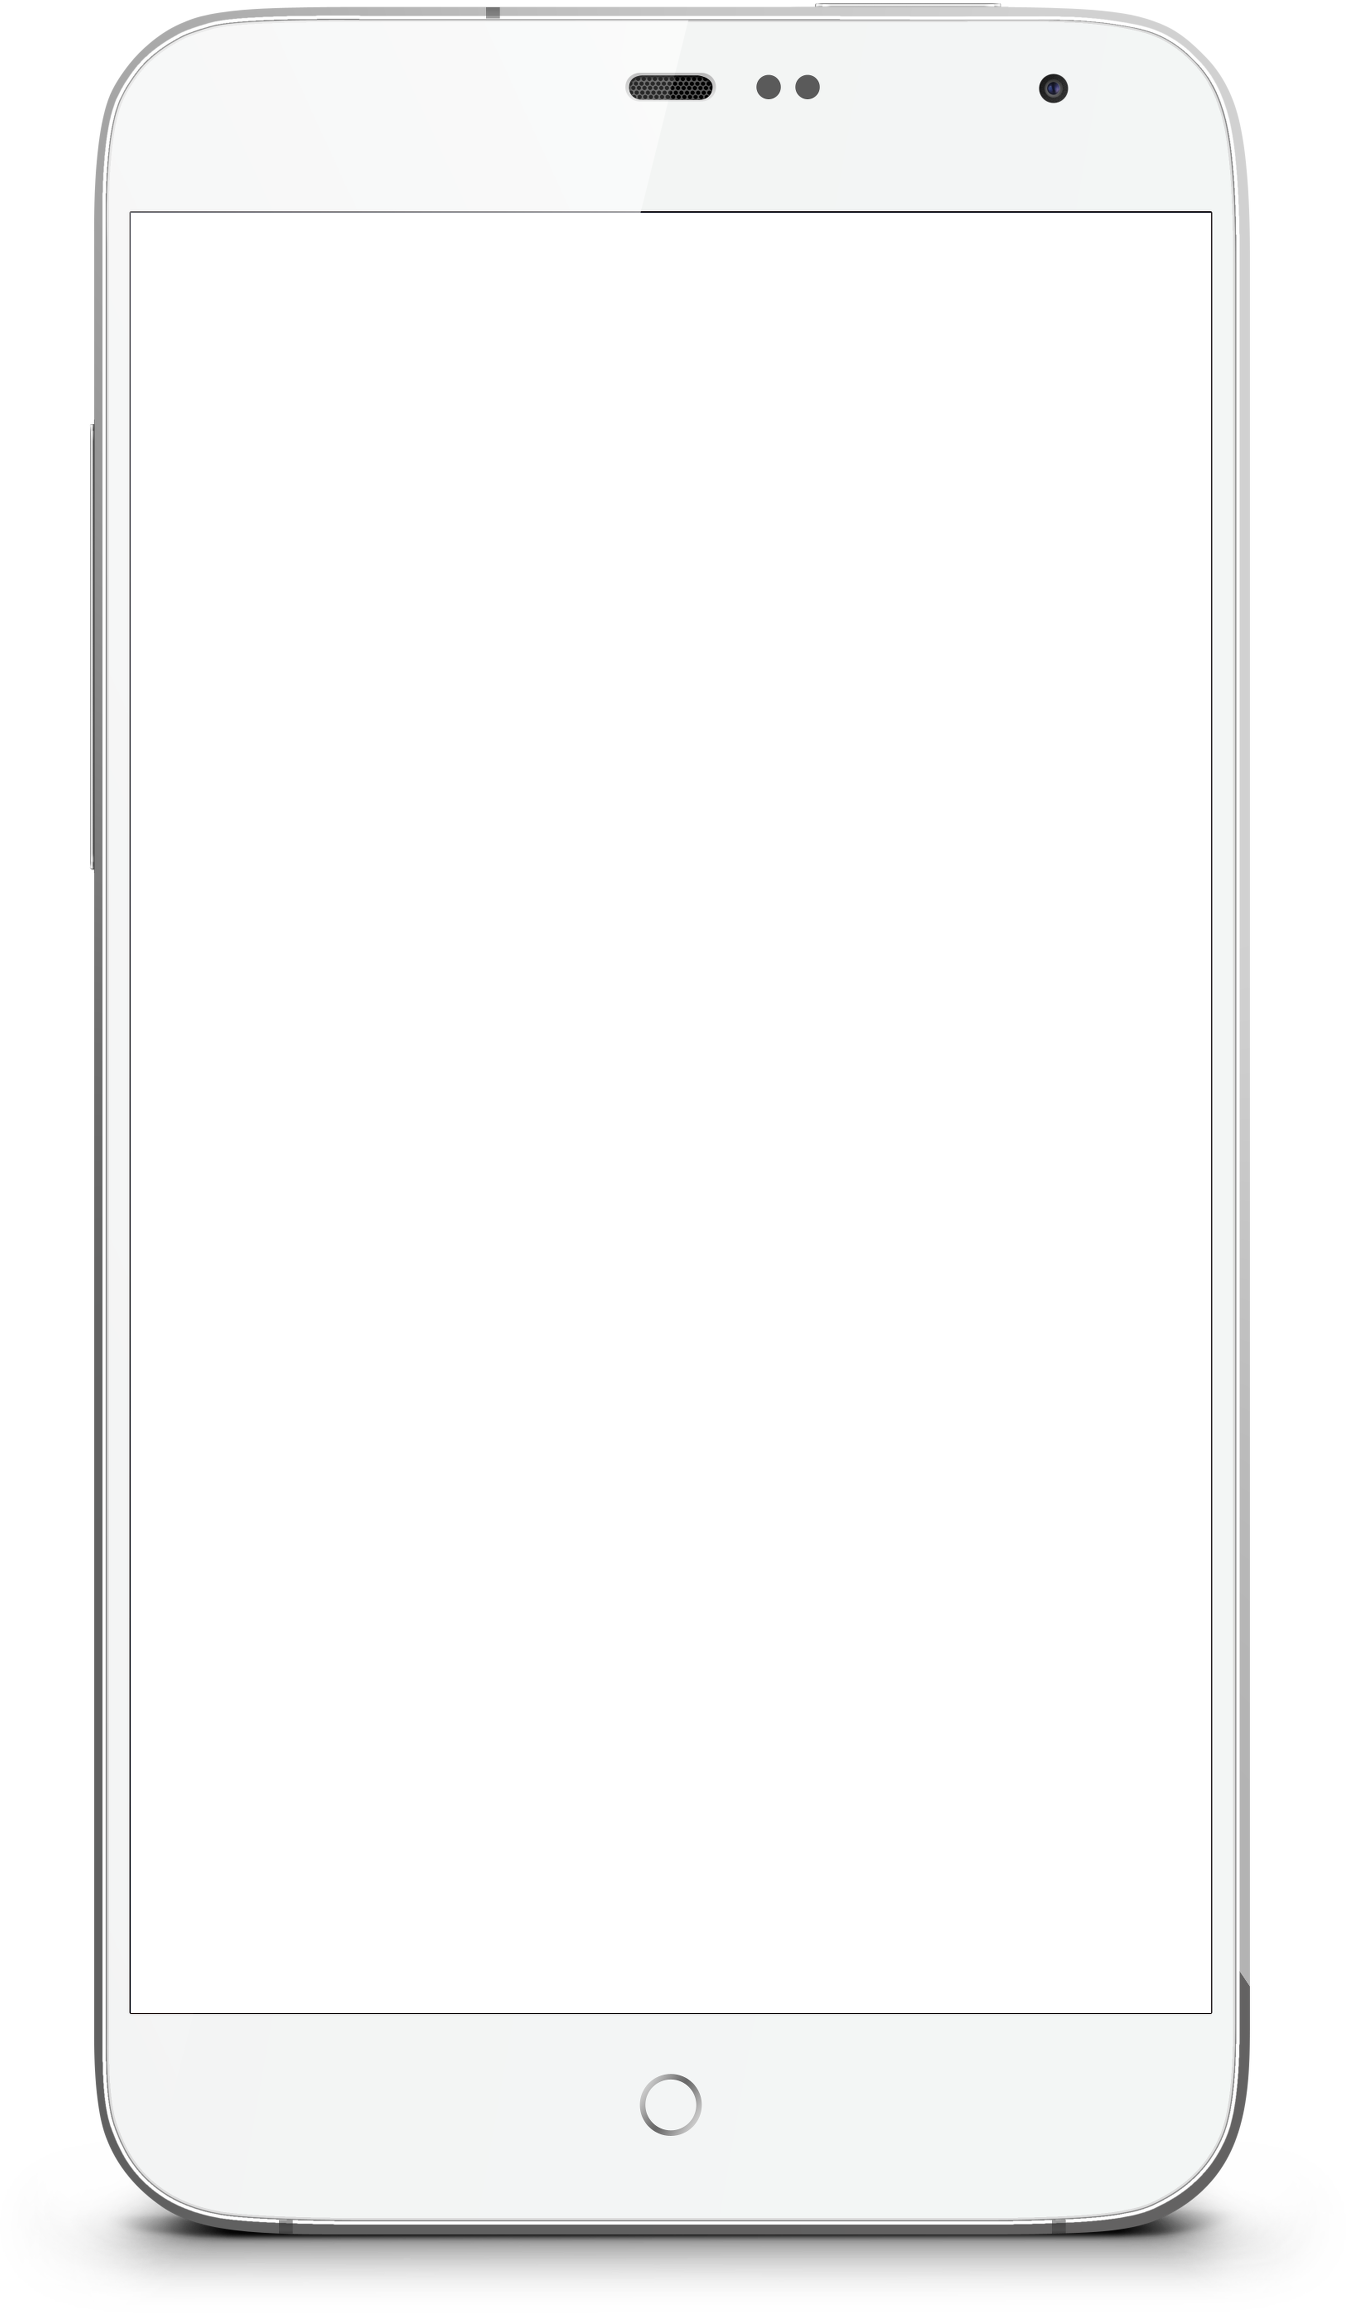
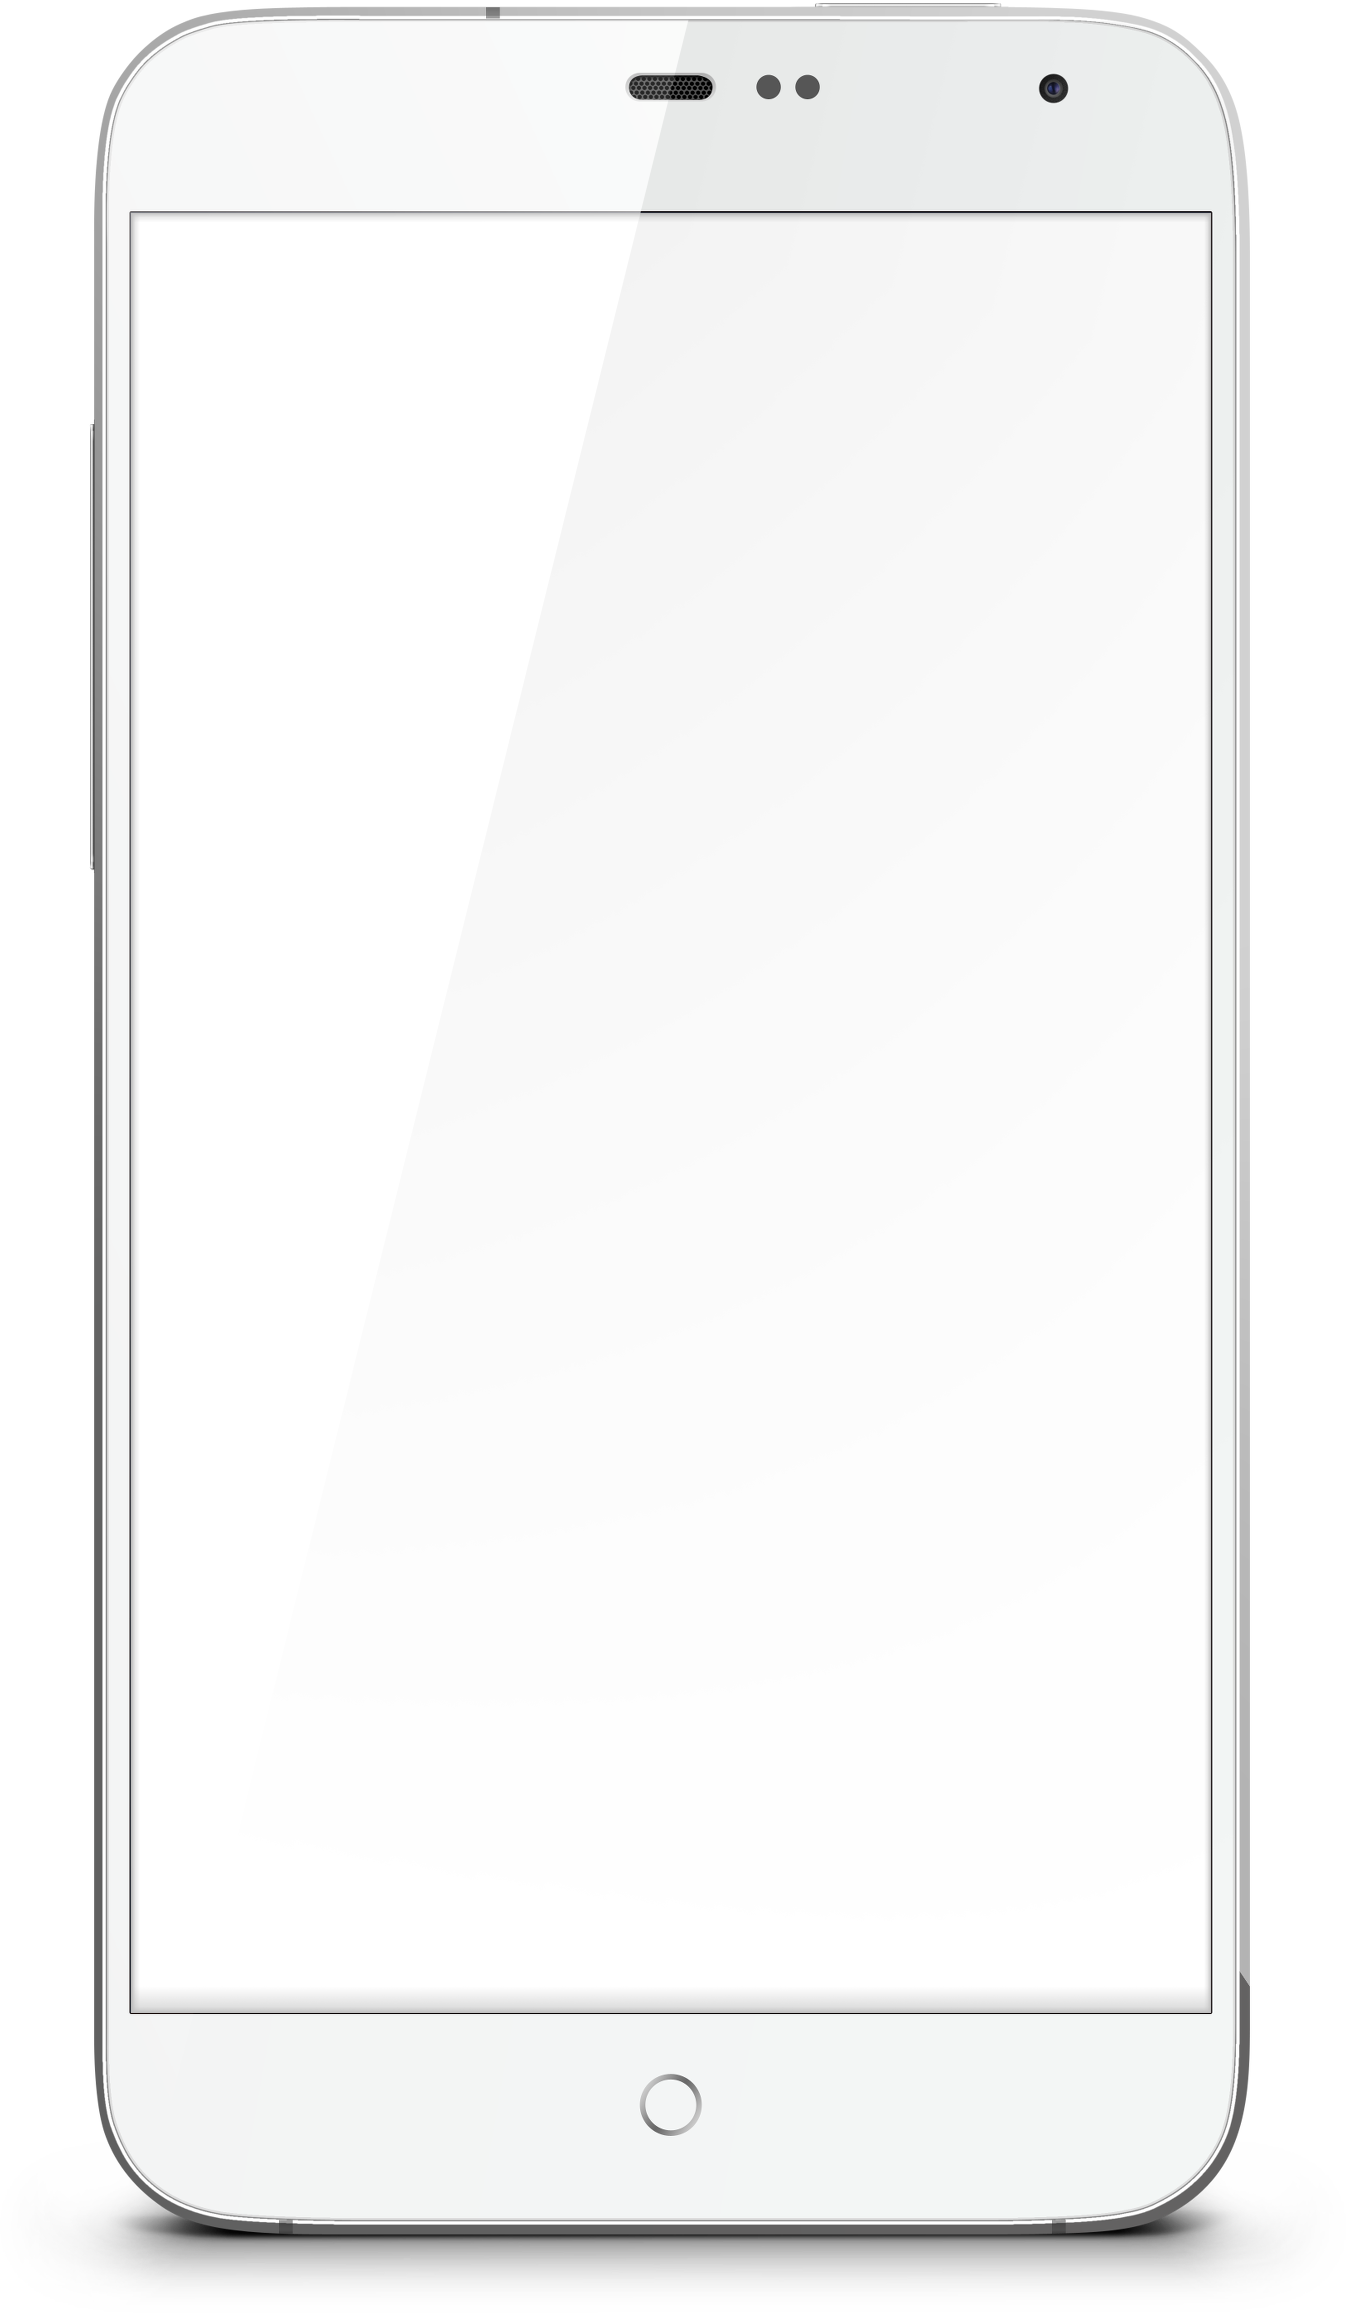
Added option to include the Unity panel in the picture.

Changed region(s): [[0.0936, 0.8405, 0.9049, 0.8716], [0.8737, 0.0934, 0.9049, 0.1245], [0.0936, 0.0934, 0.1248, 0.1245]]

diff --git a/twobuntu/touch/templates/touch/generator.html b/twobuntu/touch/templates/touch/generator.html
@@ -21,14 +21,15 @@
             </p>
             <p>
                 <strong>Note:</strong> for best results, use an image that is <strong>1080x1800</strong>.
+                Subract <strong>73 pixels</strong> from the height if you are adding the Unity panel.
                 Our tool will automatically resize and crop the image if necessary.
             </p>
             <hr>
             <form method="post" enctype="multipart/form-data">
                 {% csrf_token %}
-                {% with form.image as field %}
+                {% for field in form %}
                     {% include "fragments/field.html" %}
-                {% endwith %}
+                {% endfor %}
                 <br>
                 <button type="submit" class="btn btn-xl btn-primary">
                     <span class="fa fa-cogs"></span>

diff --git a/twobuntu/touch/views.py b/twobuntu/touch/views.py
@@ -13,9 +13,10 @@ SCREENSHOT_X = 131
 SCREENSHOT_Y = 213
 SCREENSHOT_W = 1080
 SCREENSHOT_H = 1800
+PANEL_H = 73
 
 
-def generate_device_art(screenshot):
+def generate_device_art(screenshot, add_panel=True):
     """
     Load the template & overlay and combine them with the screenshot.
     """
@@ -27,9 +28,15 @@ def generate_device_art(screenshot):
     w, h = s.size
     s = s.crop((0, 0, w, int(float(SCREENSHOT_H) / float(SCREENSHOT_W) * w)))
     s = s.resize((SCREENSHOT_W, SCREENSHOT_H), Image.ANTIALIAS)
-    # Create the output image and paste the screenshot on it
+    # Create the output image for pasting the screenshot onto
     o = Image.new('RGBA', (TEMPLATE_W, TEMPLATE_H))
-    o.paste(s, (SCREENSHOT_X, SCREENSHOT_Y))
+    # Add the panel if requested
+    if add_panel:
+        p = Image.open(finders.find('img/touch-panel.png'))
+        o.paste(p, (SCREENSHOT_X, SCREENSHOT_Y))
+        o.paste(s, (SCREENSHOT_X, SCREENSHOT_Y + PANEL_H))
+    else:
+        o.paste(s, (SCREENSHOT_X, SCREENSHOT_Y))
     # Blend the frame above and save the image to the BytesIO
     Image.alpha_composite(o, t).save(response, format='PNG')
     return response.getvalue()
@@ -42,8 +49,10 @@ def generator(request):
     if request.method == 'POST':
         form = DeviceArtForm(data=request.POST, files=request.FILES)
         if form.is_valid():
-            response = HttpResponse(generate_device_art(request.FILES['image']), content_type='image/png')
+            image = generate_device_art(request.FILES['image'], form.cleaned_data['add_panel'])
+            response = HttpResponse(image, content_type='image/png')
             response['Content-Disposition'] = 'attachment; filename="ubuntu-touch-device-art.png"'
+            response['Content-Length'] = len(image)
             return response
     else:
         form = DeviceArtForm()

diff --git a/twobuntu/touch/forms.py b/twobuntu/touch/forms.py
@@ -7,3 +7,4 @@ class DeviceArtForm(forms.Form):
     """
 
     image = forms.ImageField()
+    add_panel = forms.BooleanField(required=False, label='Add the Unity panel to the picture')
